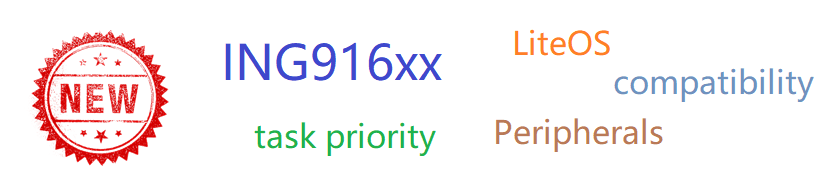
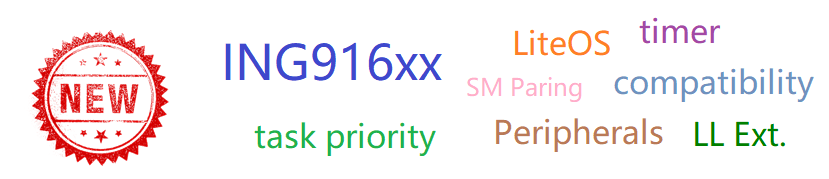
update

Changed region(s): [[0.8142, 0.6704, 0.965, 0.838], [0.5428, 0.419, 0.7238, 0.5587], [0.7539, 0.1117, 0.8745, 0.2514]]

diff --git a/blog/2022-01-28-sdk-8.0-new/index.html b/blog/2022-01-28-sdk-8.0-new/index.html
@@ -203,9 +203,12 @@
   <li>开始支持 ING916xx 系列（软件包、外设驱动、工具、示例）</li>
 </ul>
 
+<p><a href="https://github.com/ingchips/ING918XX_SDK_SOURCE/releases/tag/v8.0.0_preview2/ingchips_sdk_setup_v8.0.0_preview2.exe">点此</a>下载
+(<a href="https://download.fastgit.org/ingchips/ING918XX_SDK_SOURCE/releases/tag/v8.0.0_preview2/ingchips_sdk_setup_v8.0.0_preview2.exe">镜像</a>)。</p>
+
 <div class="important">
-<strong>注意:</strong> 对 ING916xx 系列的支持目前为“预览”。
-<a href="https://github.com/ingchips/ING918XX_SDK_SOURCE/releases/tag/v8.0.0_preview">点此</a>下载。
+<strong>注意:</strong>对 ING916xx 系列的支持目前为“预览”。
+<br />如需调试 ING916xx，务必将复位方式设为 VECTRESET（不同调试器叫法不同，J-Link 里称为 Core）。
 </div>
 
 <h2 id="1-软件包">1. 软件包</h2>
@@ -224,6 +227,24 @@
     <p>[<strong>新增</strong>] 导出 FreeRTOS 任务优先级控制相关的函数 <span style="background:yellow">(<strong>8.0.0</strong>)</span></p>
 
     <p>3 个相关的函数为：<code class="highlighter-rouge">uxTaskPriorityGet</code>, <code class="highlighter-rouge">uxTaskPriorityGetFromISR</code>, <code class="highlighter-rouge">vTaskPrioritySet</code>。</p>
+  </li>
+  <li>
+    <p>[<strong>新增</strong>] SM 事件 <code class="highlighter-rouge">SM_EVENT_STATE_CHANGED</code> <span style="background:yellow">(<strong>8.0.0</strong>)</span></p>
+
+    <p>借助该事件可直截了当地获知配对流程的最终结果。使用方法参考 <code class="highlighter-rouge">HID Keyboard</code> 示例。</p>
+  </li>
+  <li>
+    <p>[<strong>新增</strong>] <code class="highlighter-rouge">platform_set_timer</code> <span style="background:yellow">(<strong>8.0.0</strong>)</span></p>
+
+    <p>一种低功耗场景适用的软件定时器，精度优于 RTOS 提供的软件定时器。使用方法可参考示例
+  <code class="highlighter-rouge">Ext. Raw Packet Tx/Rx (NoOS)</code>。</p>
+  </li>
+  <li>
+    <p>[<strong>新增</strong>] 链路层“裸跑” <span style="background:yellow">(<strong>8.0.0</strong>)</span></p>
+
+    <p>新增的链路层“裸跑”功能适于于只使用链路层扩展 API，并且对实时性要求高的场景。将 <code class="highlighter-rouge">gen_os_driver</code> 里
+  的 <code class="highlighter-rouge">task_create</code> 置为 <code class="highlighter-rouge">NULL</code> 就可以起用该模式。使用方法可参考示例
+  <code class="highlighter-rouge">Ext. Raw Packet Tx/Rx (NoOS)</code>。</p>
   </li>
 </ul>
 
@@ -249,19 +270,19 @@
     <p>演示如何将 NoOS 软件包与 LiteOS 集成。</p>
   </li>
   <li>
-    <p>[<strong>更新</strong>] 部分示例 <span style="background:yellow">(<strong>8.0.0</strong>)</span></p>
+    <p>[<strong>更新</strong>] 绝大部分示例 <span style="background:yellow">(<strong>8.0.0</strong>)</span></p>
 
-    <p>部分示例涉及芯片外设，相关代码需要移植才能运行于 ING916xx 系列。以下示例已移植：</p>
-
-    <ul>
-      <li>Thermometer with FOTA</li>
-      <li>Voice Remote Control</li>
-    </ul>
+    <p>绝大部分示例已同时适配 ING918xx、ING916xx 两个芯片系列。</p>
   </li>
   <li>
     <p>[<strong>新增</strong>] <code class="highlighter-rouge">BQB RF Test App</code> <span style="background:yellow">(<strong>8.0.0</strong>)</span></p>
 
     <p>演示测试相关 API 的用法。</p>
+  </li>
+  <li>
+    <p>[<strong>新增</strong>] <code class="highlighter-rouge">Ext. Raw Packet Tx/Rx (NoOS)</code> <span style="background:yellow">(<strong>8.0.0</strong>)</span></p>
+
+    <p>演示链路层“裸跑” 。</p>
   </li>
 </ul>
 
@@ -274,7 +295,55 @@
   <li>
     <p>[<strong>更新</strong>] 广播数据编辑器：当数据超过 Legacy 广播最大长度时给出提示 <span style="background:yellow">(<strong>8.0.0</strong>)</span></p>
   </li>
+  <li>
+    <p>[<strong>更新</strong>] AoA 寻向 demo：支持指定子阵列类型，辅助评估子阵列性能 <span style="background:yellow">(<strong>8.0.0</strong>)</span></p>
+  </li>
 </ul>
+
+<p>通过 AoA 寻向工具的 <code class="highlighter-rouge">-array</code> 参数可以指定以下阵列类型：</p>
+
+<table>
+  <thead>
+    <tr>
+      <th style="text-align: center">类型</th>
+      <th style="text-align: left">说明</th>
+    </tr>
+  </thead>
+  <tbody>
+    <tr>
+      <td style="text-align: center">4x4</td>
+      <td style="text-align: left">整个 4x4 天线阵</td>
+    </tr>
+    <tr>
+      <td style="text-align: center">3x3</td>
+      <td style="text-align: left">$3 \times 3$ URA 子阵列</td>
+    </tr>
+    <tr>
+      <td style="text-align: center">2x2</td>
+      <td style="text-align: left">$2 \times 2$ URA 子阵列</td>
+    </tr>
+    <tr>
+      <td style="text-align: center">1x4</td>
+      <td style="text-align: left">$1 \times 4$ ULA 子阵列</td>
+    </tr>
+    <tr>
+      <td style="text-align: center">1x3</td>
+      <td style="text-align: left">$1 \times 3$ ULA 子阵列</td>
+    </tr>
+    <tr>
+      <td style="text-align: center">1100</td>
+      <td style="text-align: left">$1 \times 2$ ULA 子阵列</td>
+    </tr>
+    <tr>
+      <td style="text-align: center">1010</td>
+      <td style="text-align: left">$1 \times 2$ ULA 子阵列</td>
+    </tr>
+    <tr>
+      <td style="text-align: center">1001</td>
+      <td style="text-align: left">$1 \times 2$ ULA 子阵列</td>
+    </tr>
+  </tbody>
+</table>
 
 <h2 id="5-sdk-迁移">5. SDK 迁移</h2>
 
@@ -323,13 +392,13 @@
     <p>对于仅有一个系列支持的外设功能，无法实现兼容。</p>
 
     <div class="note">
- <strong>说明:</strong> ING916xx 系列芯片的外设除了串口外全部更新，在开发驱动程序时已尽量保持软件接口的兼容性，
- 但是为了充分利用外设的全部功能，无法做到完全兼容。
+ <strong>说明:</strong> ING916x 系列芯片的外设除了串口外全部更新，在开发驱动程序时已尽量保持软件接口x的兼容性，
+ 但是 1) 由于外设硬件功能差异, 2) 为了充分利用外设的全部功能，无法做到完全兼容。
  </div>
   </li>
 </ol>
 
-<p>综上，主要在于外设相关的部分代码需要区分芯片系列分别开发。以下示例项目已经兼容两个芯片系列，可供参考：</p>
+<p>综上，主要在于外设相关的部分代码需要区分芯片系列分别开发。SDK 里的绝大部分示例已兼容两个系列，可供参考，比如：</p>
 
 <ul>
   <li>Thermometer with FOTA：完全兼容，涉及 I2C、FOTA</li>
